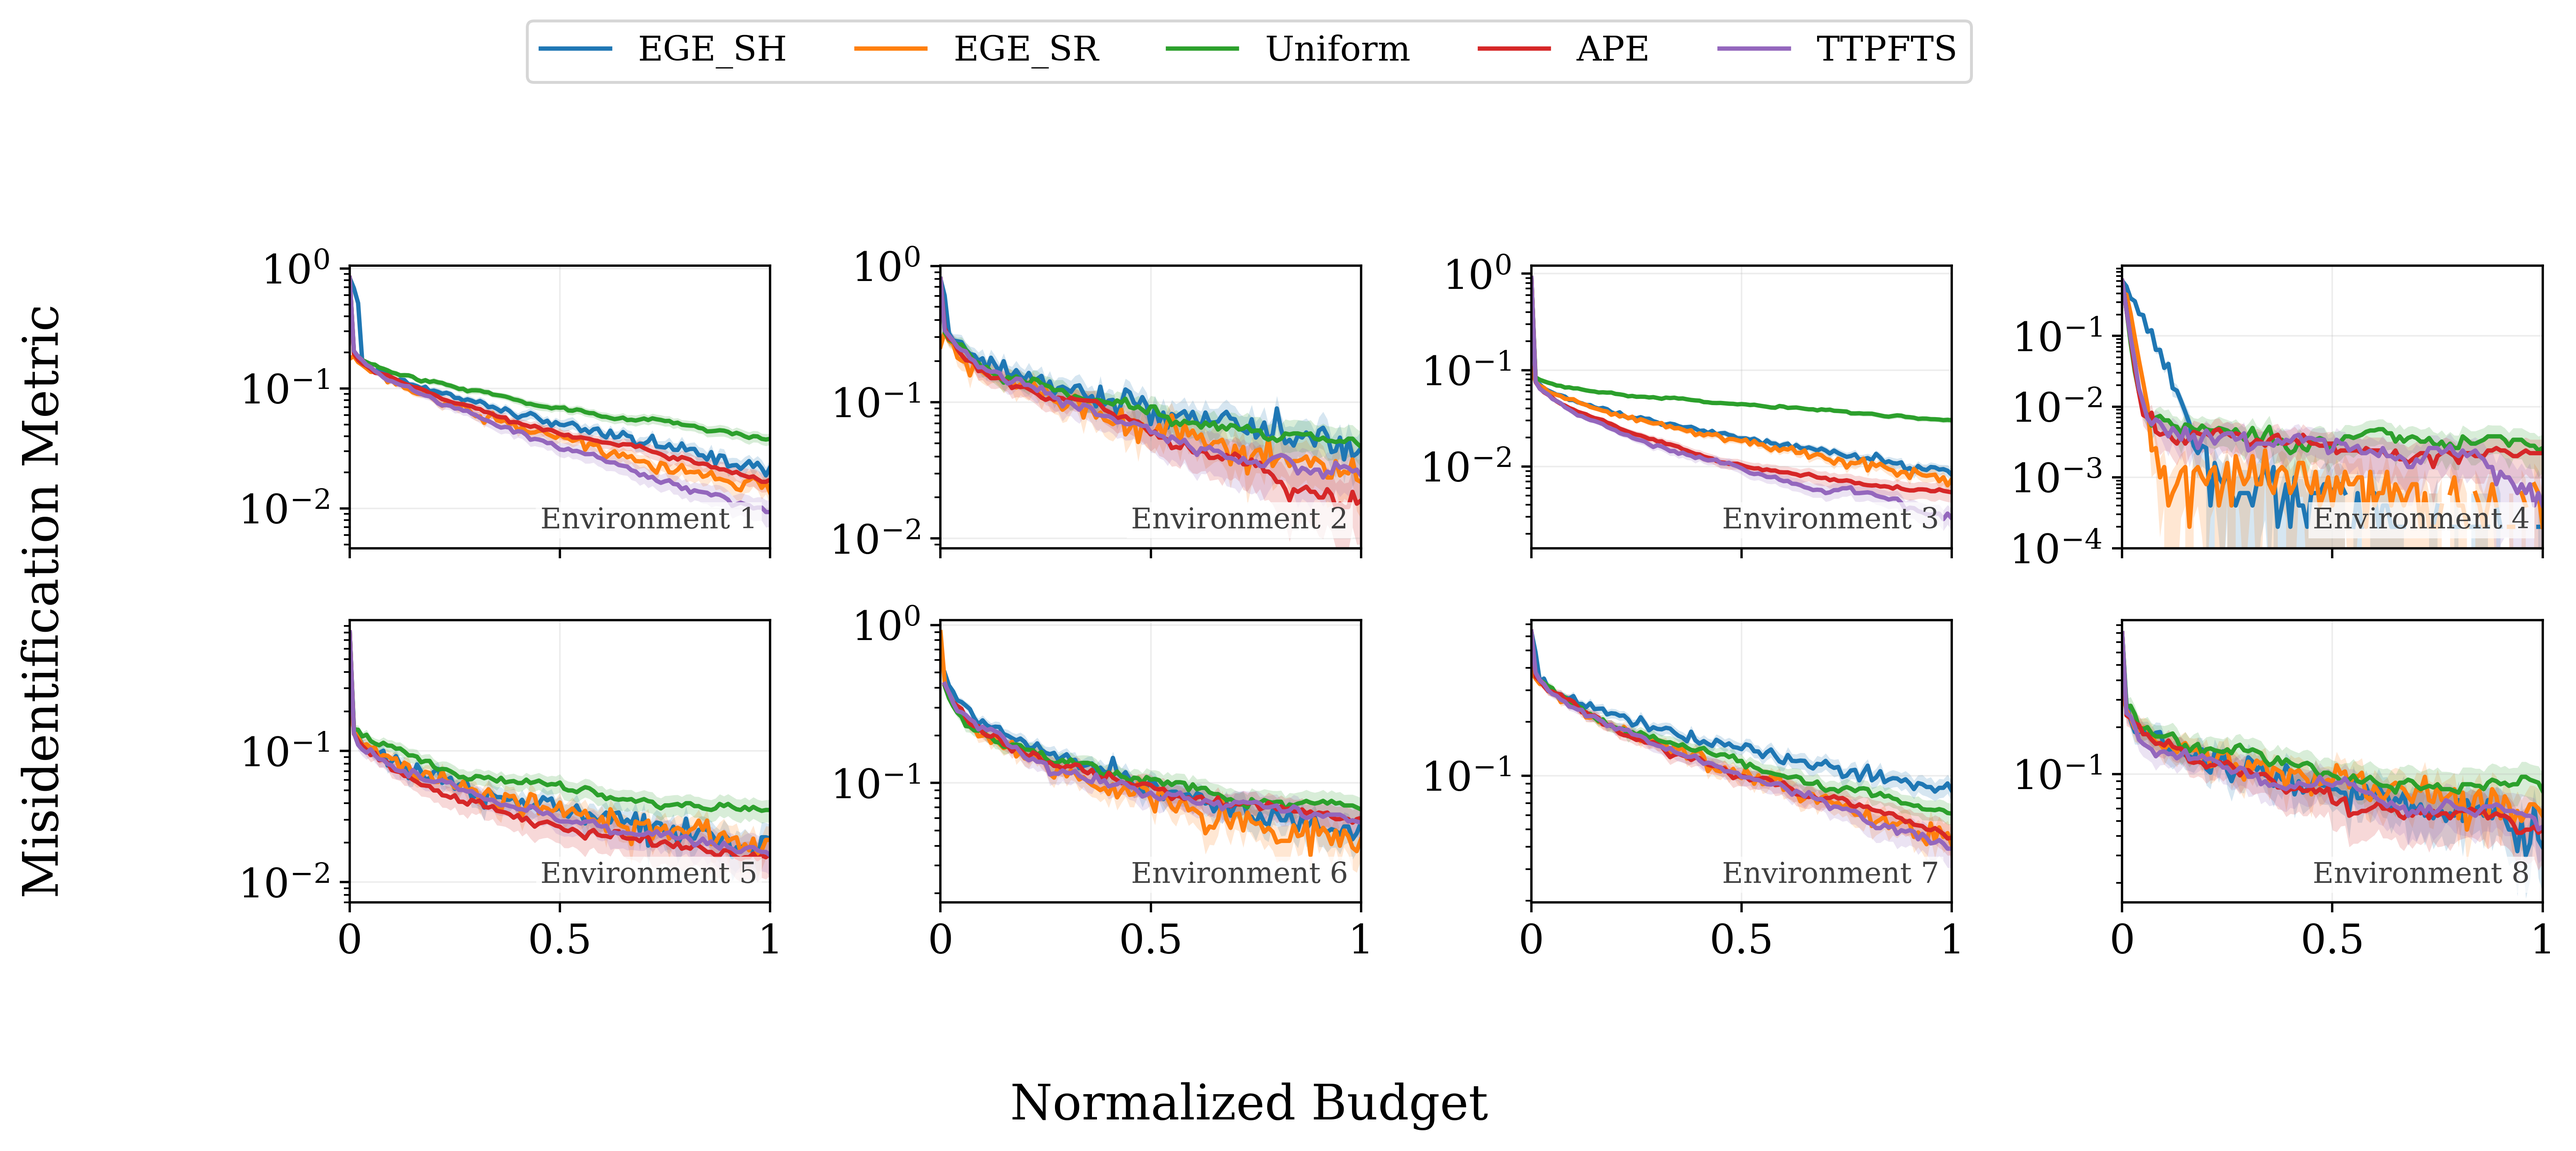
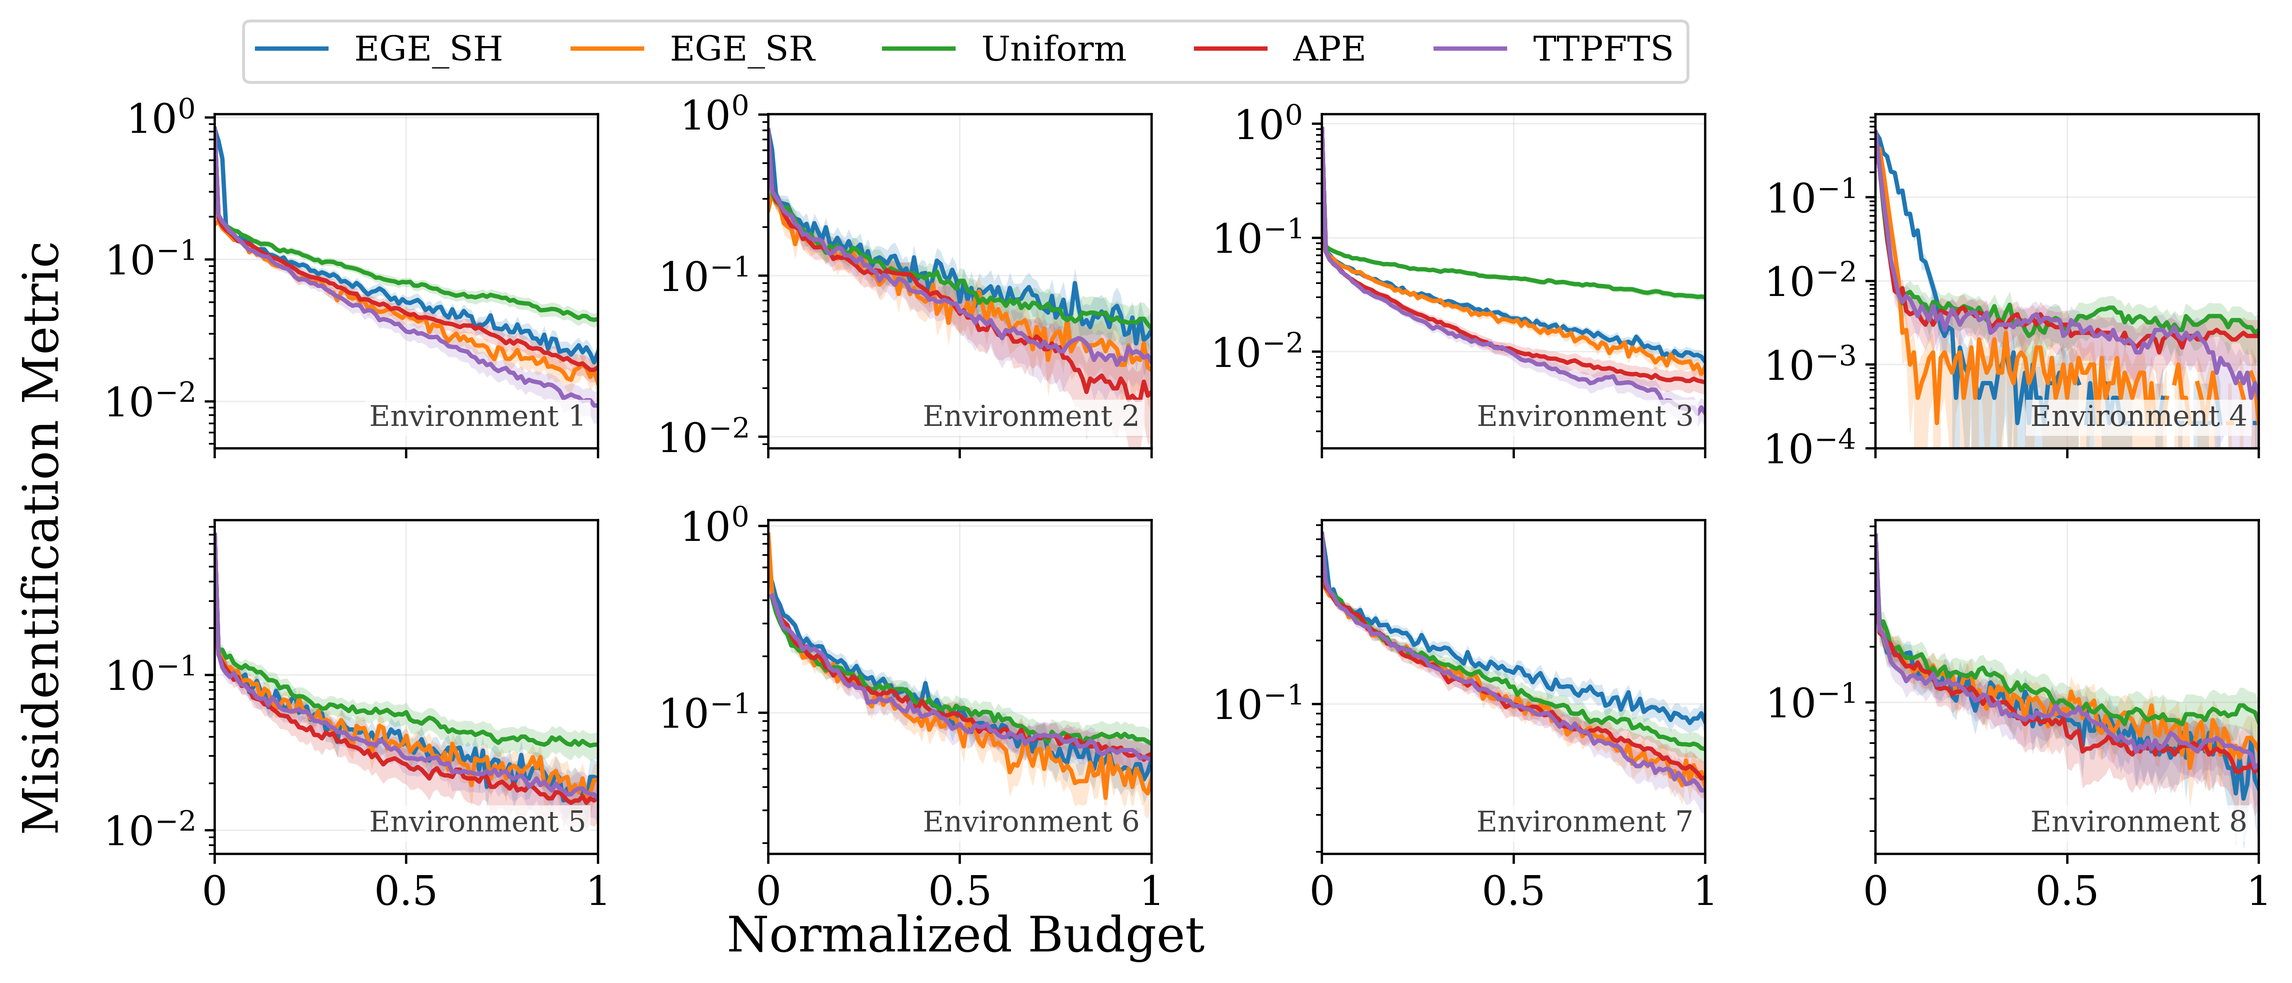
Tighten publication plot composition
Bring shared metric and normalized-budget labels close to the subplot grid, lower the framed legend to the grid, and make the panels slightly taller for a more square presentation.

diff --git a/plotting.py b/plotting.py
@@ -626,17 +626,17 @@ def plot_metric_all_envs_grid_top_legend(
         handles,
         labels,
         loc="upper center",
-        bbox_to_anchor=(0.5, 0.98),
+        bbox_to_anchor=(0.5, 0.89),
         ncol=min(6, max(1, len(labels))),
         fontsize=12,
         frameon=True,
     )
-    fig.supxlabel("Normalized Budget", y=0.075)
-    fig.supylabel(METRIC_LABELS[metric_key], x=0.045)
+    fig.supxlabel("Normalized Budget", y=0.19)
+    fig.supylabel(METRIC_LABELS[metric_key], x=0.15)
     # Reserve a fixed band for the figure-level legend.  This must not be
     # inferred from the axes' tick-label extents: log-scaled axes have taller
     # tick labels and would otherwise push the legend outside the saved figure.
-    fig.tight_layout(rect=[0.075, 0.105, 1, 0.82])
+    fig.tight_layout(rect=[0.13, 0.13, 1, 0.855])
 
     plotted_table = pd.concat(plotted_tables, ignore_index=True) if plotted_tables else pd.DataFrame()
     if table_file is not None:

diff --git a/plot_results_local.py b/plot_results_local.py
@@ -101,7 +101,7 @@ def main(argv: list[str] | None = None):
             env_arms=env_arms,
             env_objs=env_objs,
             metric=metric,
-            figsize=(13, 6),
+            figsize=(13, 6.6),
             save_png=True,
             save_file=str(figures_dir / f"publication_{metric_key}.png"),
             table_file=str(figures_dir / f"publication_{metric_key}_plot_table.csv"),
